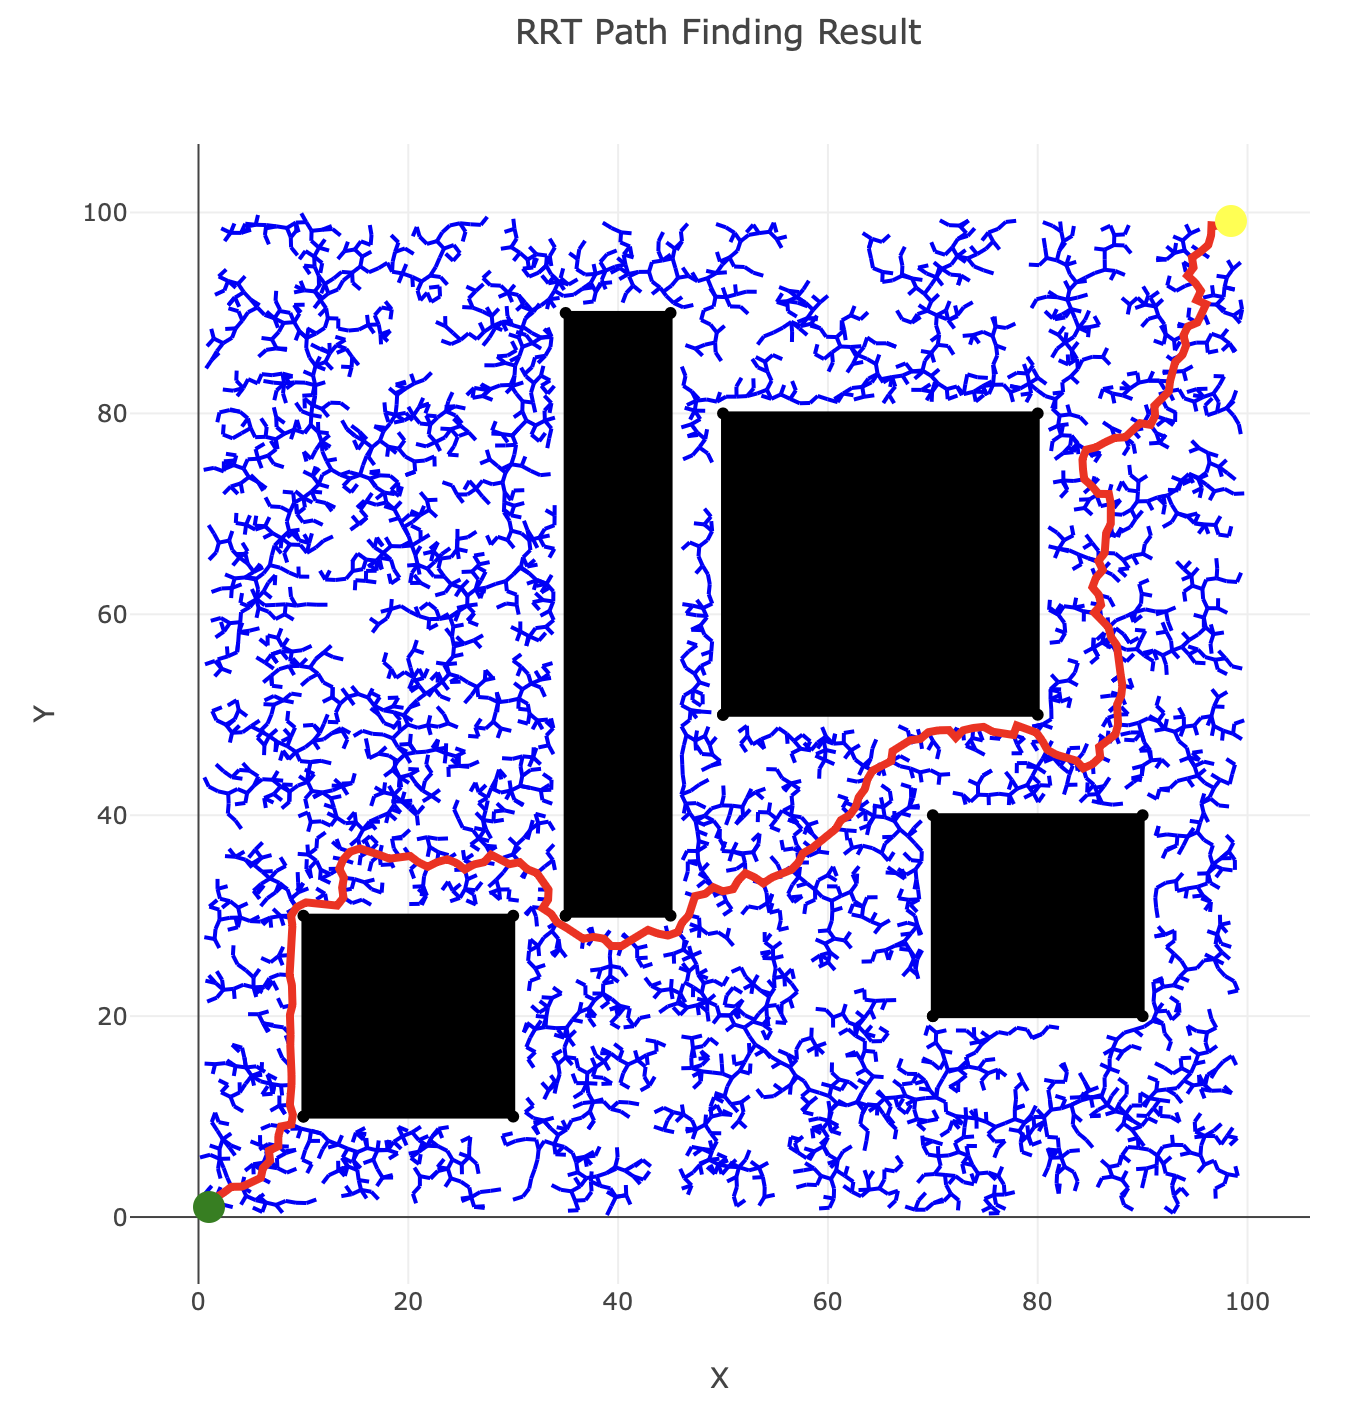
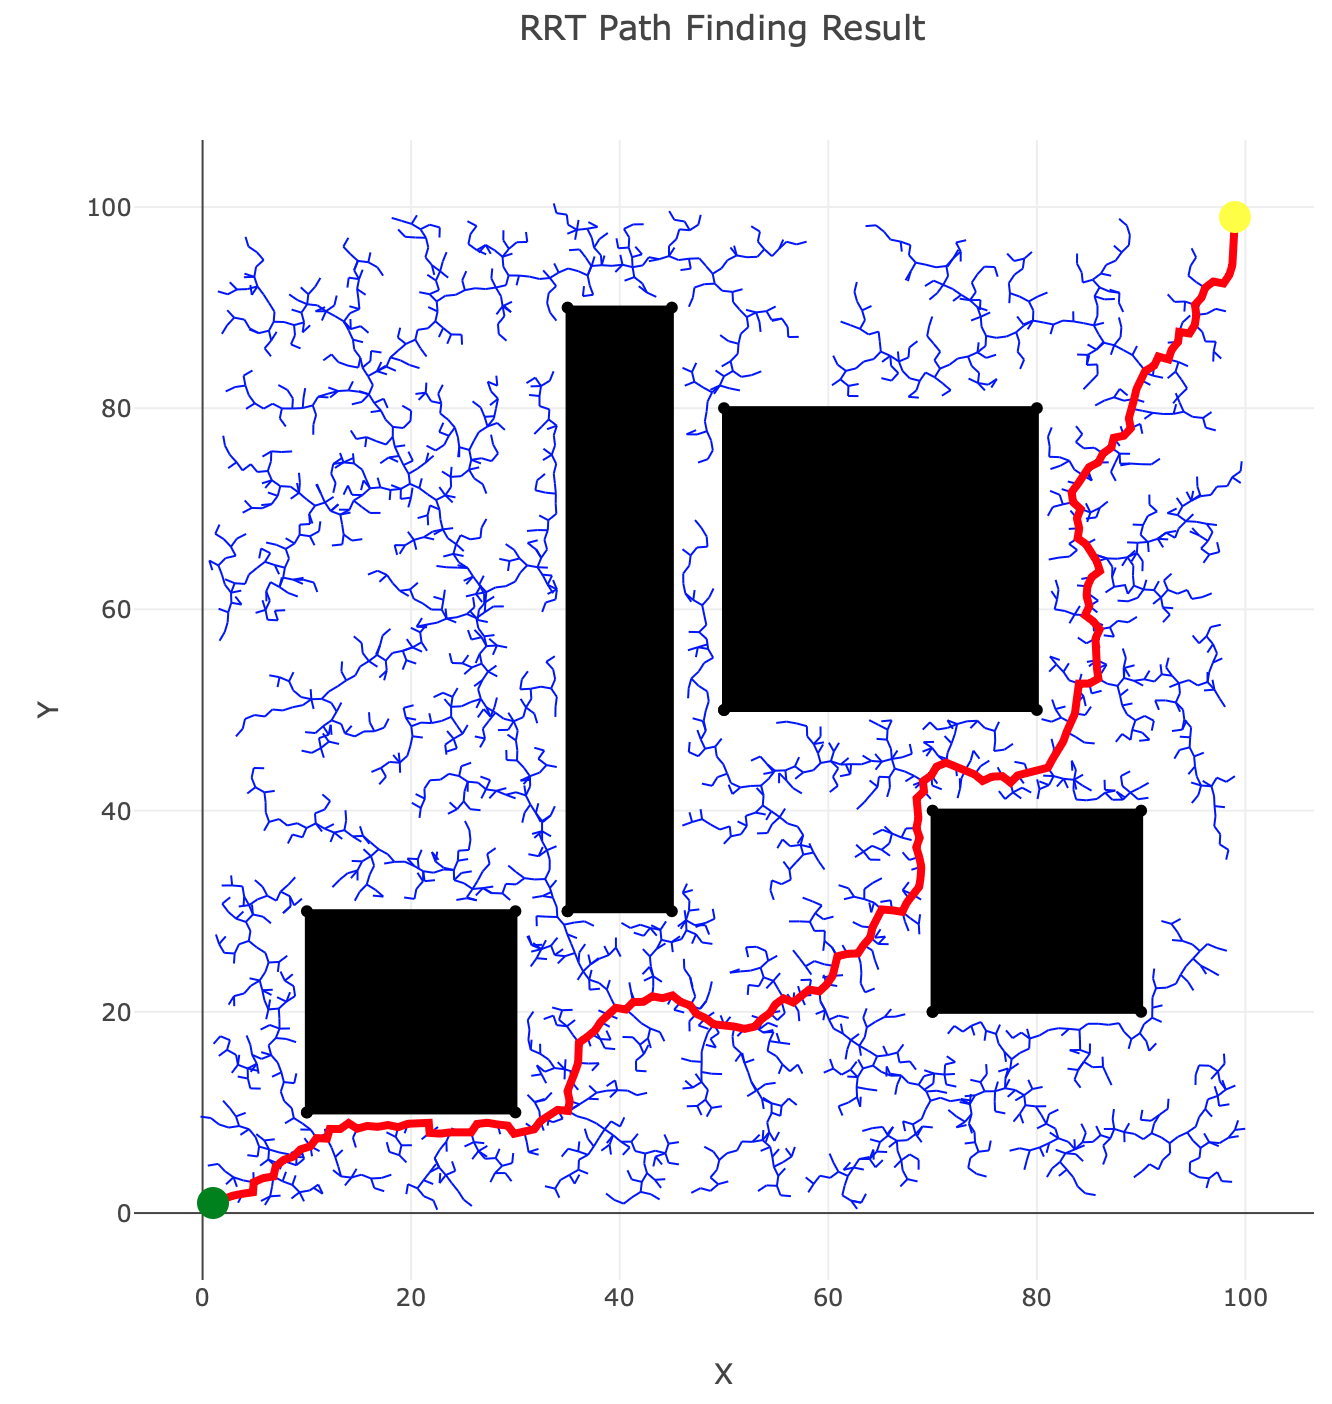
Update README and examples

diff --git a/README.md b/README.md
@@ -9,7 +9,7 @@ Currently has rough cut versions of both `RRT` and `RRT*`, as well as a basic Ha
 Includes [an example](examples/world_example.rs) using a planar world with geometric obstacles built with the [Geo](https://crates.io/crates/geo) crate.
 The library will attempt to find a path using either RRT or RRT* and plot the result using [Plotly](https://crates.io/crates/plotly).
 
-To run regular RRT,
+To run regular RRT and return as soon as a path is found:
 ```
 cargo run --example world_example -- 1.0 1.0 99.0 99.0 false
 ```
@@ -20,3 +20,10 @@ To run RRT*,
 cargo run --example world_example -- 1.0 1.0 99.0 99.0 true
 ```
 ![alt text](examples/rrt_star_sample.png)
+
+Or you can optionally specify a timeout to continue sampling to converge towards the optimal path,
+
+```
+cargo run --example world_example -- 1.0 1.0 99.0 99.0 true 10.0
+```
+![alt text](examples/rrt_star_optimal_sample.png)
